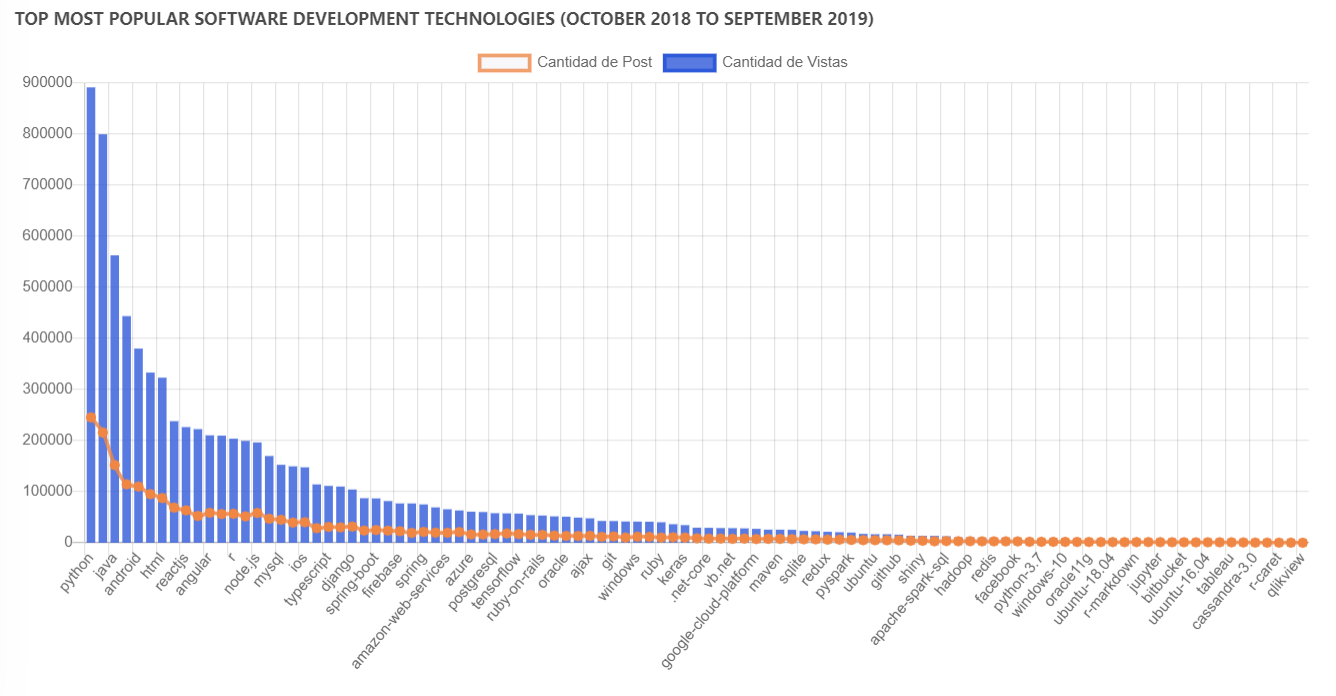
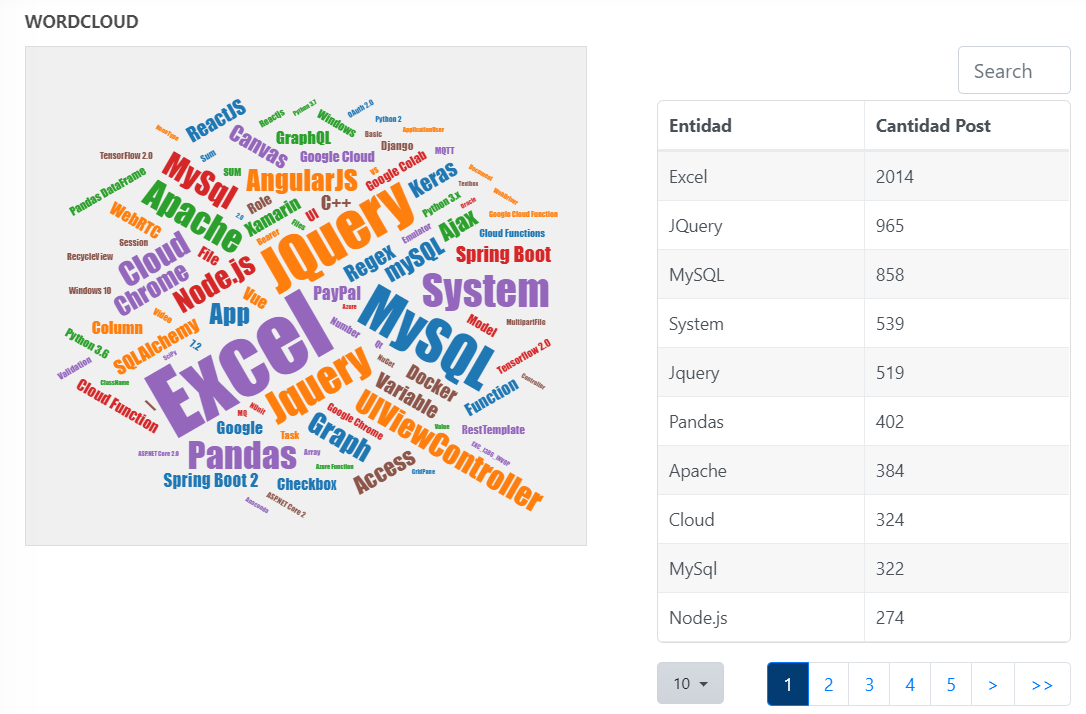
make it better

diff --git a/public/index.html b/public/index.html
@@ -5,7 +5,7 @@
     <meta name="viewport" content="width=device-width, initial-scale=1, maximum-scale=1, shrink-to-fit=no">
 
     <meta name="theme-color" content="#000000">
-    <meta property='og:title' content="Las tecnologías de desarrollo de software más populares en Stack Overflow"/>
+    <meta property='og:title' content="Wordcloud con las palabras más usadas en Stack Overflow"/>
     <meta property='og:image' content="%PUBLIC_URL%/Screenshot_1.png"/>
     <meta property='og:description' content="Las tecnologías de desarrollo de software más populares en Stack Overflow, Dashboard web desarrollado con reactjs y webscraping Python"/>
     <meta property='og:url' content="https://so-jramirezneira.herokuapp.com/" />
